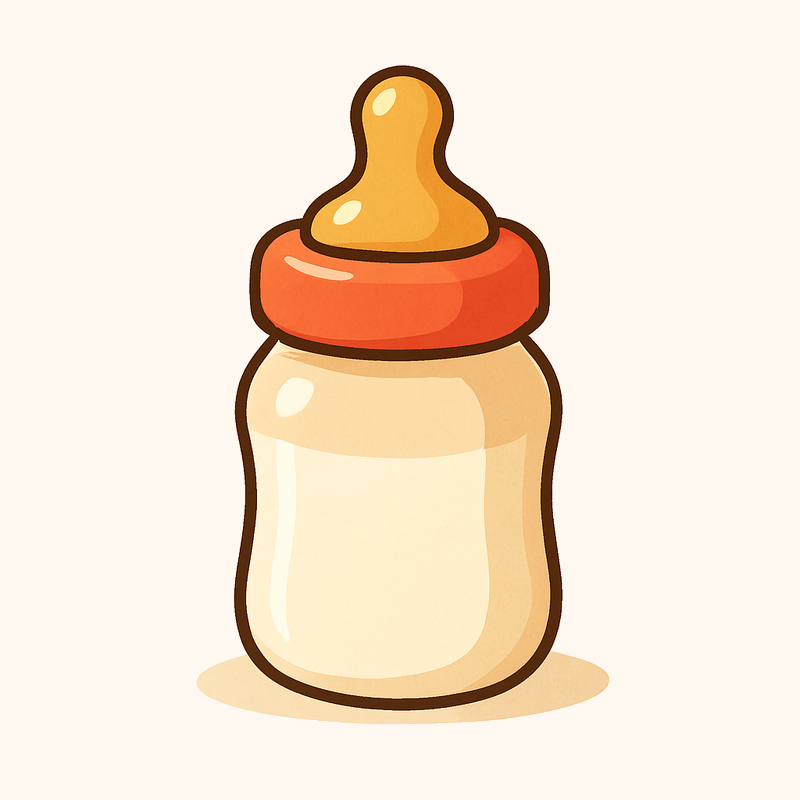
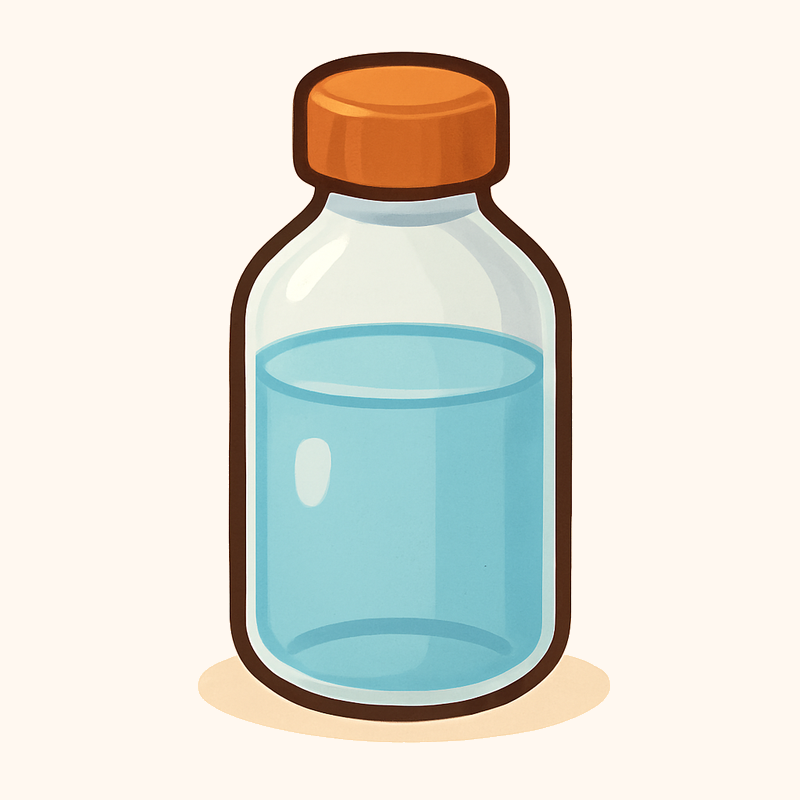
deck: neutral fles, drop wafel, add vork + mes
Review feedback on the starter art:
- fles: regenerate as a neutral capped water bottle (the baby bottle
  read as milk).
- wafel: remove (word + image).
- vork (v), mes (m): add to complete the cutlery set alongside lepel,
  matching its wooden house-style look. mes is a child-safe rounded
  table knife.

Card-count assertion 54 -> 55. check valid, all cards active.

Refs #7

Claude-Session: https://claude.ai/code/session_01T8N1kkbwHEp9kNpyPczFYQ

diff --git a/tests/test_lettercards.py b/tests/test_lettercards.py
@@ -87,7 +87,7 @@ def test_check_flags_bad_image_dimensions(deck):
 def test_starter_deck_is_valid():
     cards, problems = check_deck(starter_dir())
     assert problems == []
-    assert len(cards) == 54
+    assert len(cards) == 55
 
 
 def test_cli_render_starter(tmp_path, capsys):

diff --git a/lettercards/starter/images/SOURCES.md b/lettercards/starter/images/SOURCES.md
@@ -116,7 +116,7 @@ Proven July 2026 (the 16-image batch below, ~$0.40 total):
 | ![egel](egel.png) | egel | gpt-image-1-mini | 2026-07-06 | master prompt, subject: "a little round hedgehog with soft brown spikes" (refs: zebra, beer, appel) |
 | ![fiets](fiets.png) | fiets | ChatGPT/DALL-E | 2026-03-19 | _prompt lost — regenerate from the master prompt if this image ever needs fixing_ |
 | ![flamingo](flamingo.png) | flamingo | gpt-image-1-mini | 2026-07-06 | master prompt, subject: "a pink flamingo standing on one leg" (refs: zebra, beer, appel) |
-| ![fles](fles.png) | fles | gpt-image-1-mini | 2026-07-06 | master prompt, subject: "a baby's drinking bottle with a teat" (refs: zebra, beer, appel) |
+| ![fles](fles.png) | fles | gpt-image-1-mini | 2026-07-06 | master prompt, subject: "a simple clear glass drink bottle with a cap and a little water inside, tall with a narrow neck" (refs: zebra, beer, appel) |
 | ![geit](geit.png) | geit | gpt-image-1-mini | 2026-07-06 | master prompt, subject: "a little white baby goat with tiny horns" (refs: zebra, beer, appel) |
 | ![glas](glas.png) | glas | gpt-image-1-mini | 2026-07-06 | master prompt, subject: "a clear empty drinking glass with a little water in it" (refs: zebra, beer, appel) |
 | ![hand](hand.png) | hand | gpt-image-1-mini | 2026-07-05 | master prompt, subject: "an open child's hand, palm forward" (refs: zebra, beer, appel) |
@@ -131,6 +131,7 @@ Proven July 2026 (the 16-image batch below, ~$0.40 total):
 | ![leeuw](leeuw.png) | leeuw | ChatGPT/DALL-E | 2026-03-18 | _prompt lost — regenerate from the master prompt if this image ever needs fixing_ |
 | ![lepel](lepel.png) | lepel | gpt-image-1-mini | 2026-07-06 | master prompt, subject: "a single wooden spoon" (refs: zebra, beer, appel) |
 | ![melk](melk.png) | melk | gpt-image-1-mini | 2026-07-05 | master prompt, subject: "a drinking glass of white milk next to an oat-milk carton with a blank label and glass pictogram (no text)" (refs: zebra, beer, appel) |
+| ![mes](mes.png) | mes | gpt-image-1-mini | 2026-07-06 | master prompt, subject: "a single wooden child's table knife with a rounded blunt tip" (refs: zebra, beer, appel) |
 | ![muis](muis.png) | muis | gpt-image-1-mini | 2026-07-05 | master prompt, subject: "a little grey mouse" (refs: zebra, beer, appel) |
 | ![neus](neus.png) | neus | gpt-image-1-mini | 2026-07-05 | master prompt, subject: "a simple human nose" (refs: zebra, beer, appel) |
 | ![nijlpaard](nijlpaard.png) | nijlpaard | gpt-image-1-mini | 2026-07-06 | master prompt, subject: "a chubby grey hippo" (refs: zebra, beer, appel) |
@@ -148,7 +149,7 @@ Proven July 2026 (the 16-image batch below, ~$0.40 total):
 | ![uil](uil.png) | uil | gpt-image-1-mini | 2026-07-06 | master prompt, subject: "a little round brown owl" (refs: zebra, beer, appel) |
 | ![vis](vis.png) | vis | gpt-image-1-mini | 2026-07-05 | master prompt, subject: "a chubby orange fish" (refs: zebra, beer, appel) |
 | ![vlinder](vlinder.png) | vlinder | gpt-image-1-mini | 2026-07-05 | master prompt, subject: "a colorful butterfly" (refs: zebra, beer, appel) |
-| ![wafel](wafel.png) | wafel | gpt-image-1-mini | 2026-07-06 | master prompt, subject: "a square golden-brown waffle" (refs: zebra, beer, appel) |
+| ![vork](vork.png) | vork | gpt-image-1-mini | 2026-07-06 | master prompt, subject: "a single wooden fork" (refs: zebra, beer, appel) |
 | ![wortel](wortel.png) | wortel | gpt-image-1-mini | 2026-07-06 | master prompt, subject: "an orange carrot with a leafy green top" (refs: zebra, beer, appel) |
 | ![xylofoon](xylofoon.png) | xylofoon | gpt-image-1-mini | 2026-07-06 | master prompt, subject: "a colorful toy xylophone with rainbow-colored bars" (refs: zebra, beer, appel) |
 | ![yoghurt](yoghurt.png) | yoghurt | gpt-image-1-mini | 2026-07-06 | master prompt, subject: "an open glass pot of creamy white yoghurt with a few red berries on top" (refs: zebra, beer, appel) |